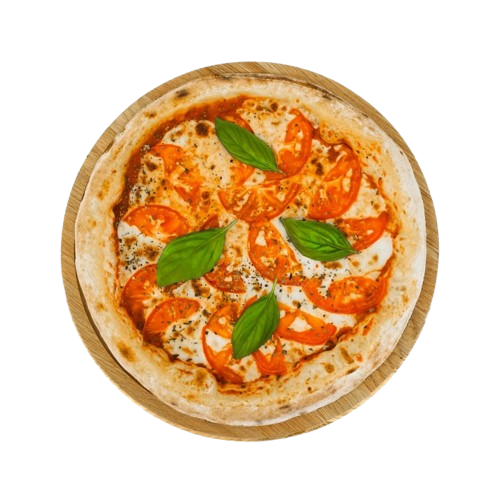
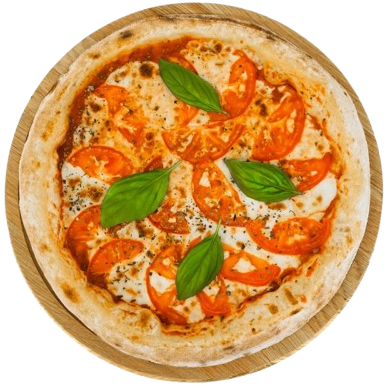
29.04.2025 - додані лін.градієнти та міксін

diff --git a/index.html b/index.html
@@ -36,32 +36,32 @@
 
         <ul class="pizzas">
             <li><a href="#">
-                    <img src="./src/img/americano.png">
+                    <img src="./src/img/four_cheese.png">
                     <span>Four Cheese</span>
                 </a>
             </li>
             <li><a href="#">
-                    <img src="./src/img/americano.png">
+                    <img src="./src/img/margarita.png">
                     <span>Margharita</span>
                 </a>
             </li>
             <li><a href="#">
-                    <img src="./src/img/americano.png">
+                    <img src="./src/img/hen_mashroom.png">
                     <span>Mashroom</span>
                 </a>
             </li>
             <li><a href="#">
-                    <img src="./src/img/americano.png">
+                    <img src="./src/img/meat.png">
                     <span>Meat</span>
                 </a>
             </li>
             <li><a href="#">
-                    <img src="./src/img/americano.png">
+                    <img src="./src/img/paperonchino.png">
                     <span>Paperonchino</span>
                 </a>
             </li>
             <li><a href="#">
-                    <img src="./src/img/americano.png">
+                    <img src="./src/img/venetsia.png">
                     <span>Venetisa</span>
                 </a>
             </li>
@@ -69,22 +69,22 @@
 
         <ul class="drinks">
             <li><a href="#">
-                    <img src="./src/img/americano.png">
+                    <img src="./src/img/coca_cola.png">
                     <span>Coca-Cola</span>
                 </a>
             </li>
             <li><a href="#">
-                    <img src="./src/img/americano.png">
+                    <img src="./src/img/pepsi.png">
                     <span>Pepsi</span>
                 </a>
             </li>
             <li><a href="#">
-                    <img src="./src/img/americano.png">
-                    <span>Water (Morshinska</span>)
+                    <img src="./src/img/morshinska.png">
+                    <span>Water (Morshinska)</span>
                 </a>
             </li>
             <li><a href="#">
-                    <img src="./src/img/americano.png">
+                    <img src="./src/img/orange_juice.png">
                     <span>Orange Juice</span>
                 </a>
             </li>
@@ -97,7 +97,7 @@
                 </a>
             </li>
             <li><a href="#">
-                    <img src="./src/img/americano.png">
+                    <img src="./src/img/expresso.png">
                     <span>Expresso</span>
                 </a>
             </li>

diff --git a/style.scss b/style.scss
@@ -1,4 +1,13 @@
 /* Проект "Пицца" */
+
+$gradient-background-elem: linear-gradient(0.25turn, #FE9C1C, #FF5D29);
+
+@mixin gradient-text-color {
+    background: $gradient-background-elem;
+    background-clip: text;
+    -webkit-text-fill-color: transparent;
+}
+
 * {
     margin: 0;
     padding: 0;
@@ -9,6 +18,7 @@
 body {
     overflow-x: hidden;
     background: linear-gradient(245.71deg, #1f0c00 4.96%, #1F0700 33.7%, #170A00 68.41%, #1E0D00 96.42%);
+    // background: $gradient-background-elem;
     color: white;
     min-height: 100vh;
 }
@@ -20,9 +30,10 @@ ul {
     flex-direction: row;
 
     li {
-        
+        list-style: none;
         a {
-            color: white;
+            // color: white;
+            @include gradient-text-color;
             text-decoration: none;
             
         }
@@ -30,9 +41,9 @@ ul {
 }
 
 #header {
-    position: absolute;
-    top: 0;
-    left: 0;
+    // position: absolute;
+    // top: 0;
+    // left: 0;
     width: 100%;
     padding: 30px 100px;
     display: flex;
@@ -40,7 +51,8 @@ ul {
     align-items: center;
 
     .logo {
-        color: white;
+        @include gradient-text-color;
+
         font-weight: 700;
         font-size: 1.5em;
         text-decoration: none;
@@ -51,12 +63,25 @@ ul {
         display: flex;
         justify-content: space-evenly;
         align-items: center;
+
+        color: $gradient-background-elem;
+        
     }
 }
 
 #main {
     ul {
         overflow-x: scroll;
+
+        li {
+            a {
+                display: flex;
+                justify-content: center;
+                align-items: center;
+                flex-direction: column;
+                height: 100%;
+            }
+        }
     }
 }
 

diff --git a/style.css b/style.css
@@ -4,7 +4,7 @@
   margin: 0;
   padding: 0;
   box-sizing: border-box;
-  font-family: "Segoe UI", Tahoma, Geneva, Verdana, sans-serif;
+  font-family: 'Segoe UI', Tahoma, Geneva, Verdana, sans-serif;
 }
 
 body {
@@ -20,15 +20,17 @@ ul {
   align-items: center;
   flex-direction: row;
 }
+ul li {
+  list-style: none;
+}
 ul li a {
-  color: white;
+  background: linear-gradient(0.25turn, #FE9C1C, #FF5D29);
+  background-clip: text;
+  -webkit-text-fill-color: transparent;
   text-decoration: none;
 }
 
 #header {
-  position: absolute;
-  top: 0;
-  left: 0;
   width: 100%;
   padding: 30px 100px;
   display: flex;
@@ -36,7 +38,9 @@ ul li a {
   align-items: center;
 }
 #header .logo {
-  color: white;
+  background: linear-gradient(0.25turn, #FE9C1C, #FF5D29);
+  background-clip: text;
+  -webkit-text-fill-color: transparent;
   font-weight: 700;
   font-size: 1.5em;
   text-decoration: none;
@@ -46,14 +50,24 @@ ul li a {
   display: flex;
   justify-content: space-evenly;
   align-items: center;
+  color: linear-gradient(0.25turn, #FE9C1C, #FF5D29);
 }
 
 #main ul {
   overflow-x: scroll;
+}
+#main ul li a {
+  display: flex;
+  justify-content: center;
+  align-items: center;
+  flex-direction: column;
+  height: 100%;
 }
 
 #footer {
   display: flex;
   justify-content: end;
   padding-right: 10px;
-}/*# sourceMappingURL=style.css.map */
+}
+
+/*# sourceMappingURL=style.css.map */

diff --git a/README.md b/README.md
@@ -1,1 +1,8 @@
-"# pizzaApp" 
+# Project
+pizzaApp
+
+# Maket
+https://www.figma.com/design/wyCYLwAPgK8qEs9WHlxLtb/%D0%9F%D1%80%D0%BE%D0%B5%D0%BA%D1%82-%D0%9F%D0%B8%D1%86%D1%86%D0%B0--?node-id=6-3&t=ccfBnjCsdUBV73VJ-0
+
+# Isons
+https://fontawesome.com/search?o=r&c=arrows&s=solid&ip=classic
